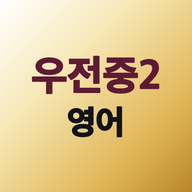
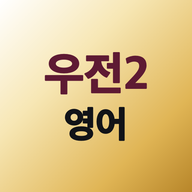
아이콘·홈 화면 이름 줄임(학교 2자+학년)

Changed region(s): [[0.1562, 0.25, 0.8438, 0.5], [0.3125, 0.5312, 0.6562, 0.75]]

diff --git a/index.html b/index.html
@@ -122,7 +122,7 @@ body:not(.nobrand) #submit::before{content:"";display:inline-block;width:1.35em;
 <link rel="apple-touch-icon" href="/apple-touch-icon.png?v=e1">
 <meta name="apple-mobile-web-app-capable" content="yes">
 <meta name="mobile-web-app-capable" content="yes">
-<meta name="apple-mobile-web-app-title" content="우전중2">
+<meta name="apple-mobile-web-app-title" content="우전2">
 <meta name="apple-mobile-web-app-status-bar-style" content="default">
 <meta name="theme-color" content="#f5f5f2" media="(prefers-color-scheme: light)">
 <meta name="theme-color" content="#141416" media="(prefers-color-scheme: dark)">
